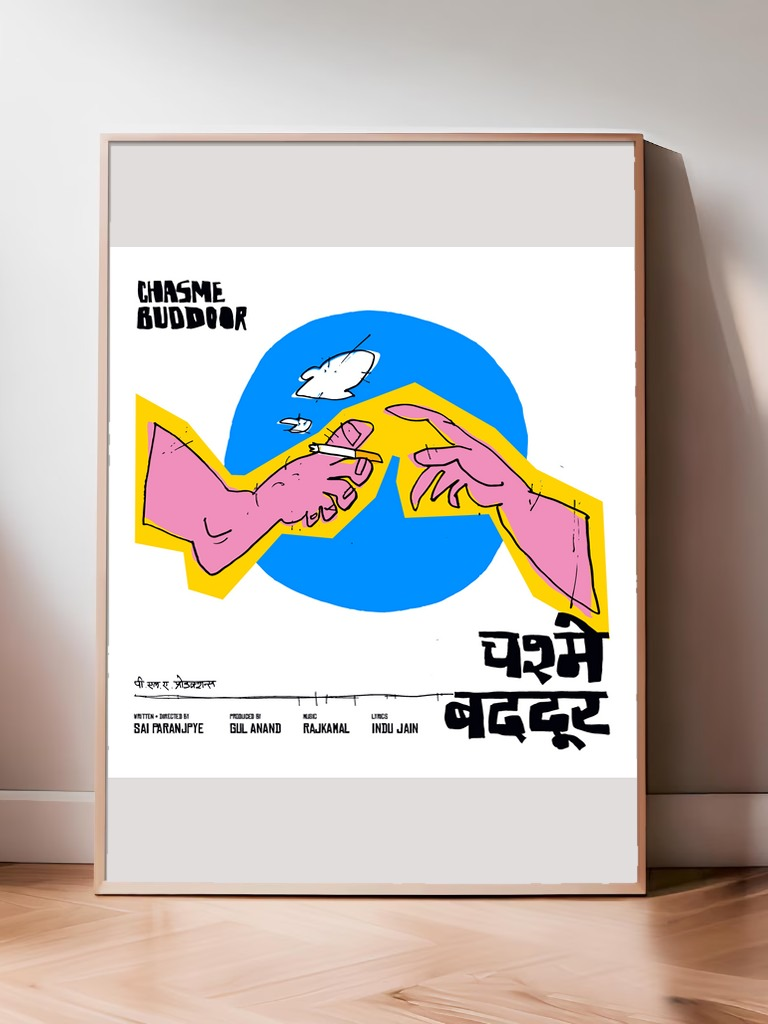
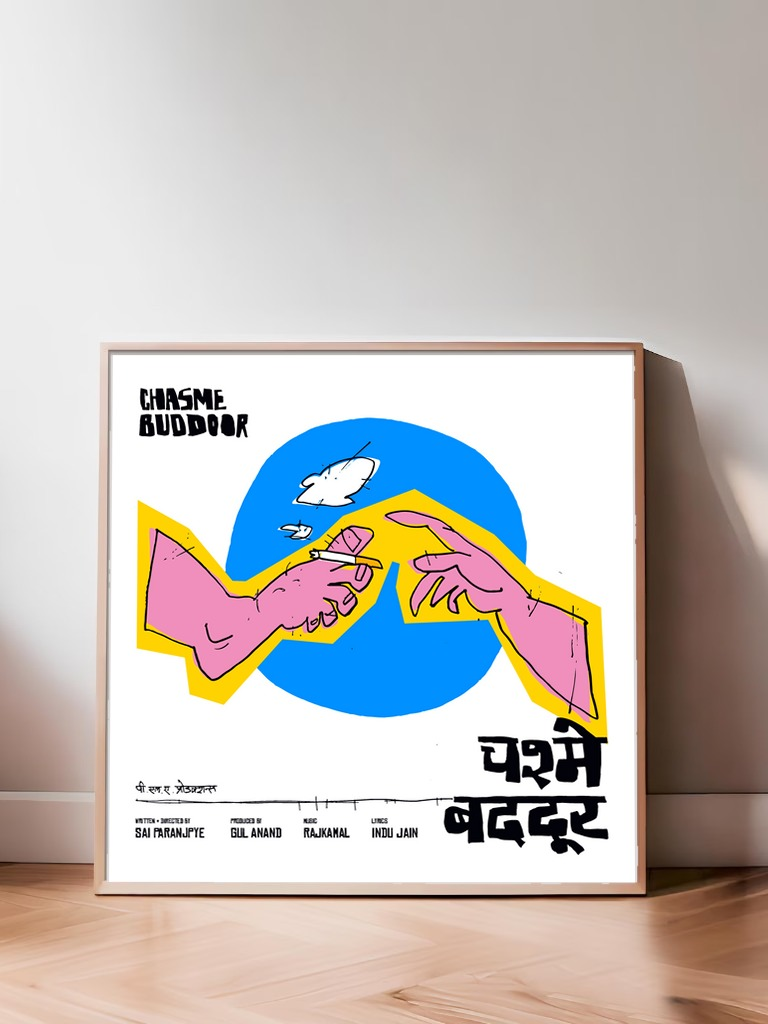
Fit leaning-frame mockups to each print's aspect ratio.
Scale the frame height instead of cropping or letterboxing art into one A-series opening.

diff --git a/scripts/composite-leaning-frame.py b/scripts/composite-leaning-frame.py
@@ -1,5 +1,10 @@
 #!/usr/bin/env python3
-"""Place each catalog print inside the leaning-frame mockup."""
+"""Place each catalog print inside the leaning-frame mockup.
+
+The mockup opening is a fixed A-series portrait. This script scales only the
+middle of the frame (keeping the floor, rails, and width) so the opening
+matches each print's aspect ratio, then composites without cropping.
+"""
 
 from __future__ import annotations
 
@@ -16,6 +21,10 @@ OUT_DIR = ROOT / "images" / "framed"
 MOCKUP_PATH = ROOT / "images" / "mockups" / "leaning-frame.png"
 MAT_SEED = (512, 850)
 PAPER = (225, 221, 220)
+SLICE_INSET = 0.12
+HEIGHT_SCALE_MIN = 0.45
+HEIGHT_SCALE_MAX = 1.6
+SKIP_SLICE_EPSILON = 0.02
 
 
 def find_coeffs(source, target):
@@ -36,14 +45,25 @@ def as_rgb(im: Image.Image) -> Image.Image:
     return im.convert("RGB")
 
 
-def paper_mask(mockup: Image.Image) -> Image.Image:
+def paper_mask(mockup: Image.Image, seed: tuple[int, int] = MAT_SEED) -> Image.Image:
     arr = np.array(mockup.convert("RGB"))
     h, w = arr.shape[:2]
+    sx, sy = seed
+    sx = min(max(0, sx), w - 1)
+    sy = min(max(0, sy), h - 1)
     target = np.array(PAPER, dtype=np.int16)
     ok = np.abs(arr.astype(np.int16) - target).max(axis=2) <= 6
+    if not ok[sy, sx]:
+        ys, xs = np.where(ok)
+        if len(xs) == 0:
+            raise RuntimeError("Could not find mat/paper pixels in mockup")
+        d = (xs - sx) ** 2 + (ys - sy) ** 2
+        i = int(np.argmin(d))
+        sx, sy = int(xs[i]), int(ys[i])
+
     ring = np.zeros((h, w), dtype=bool)
-    q = deque([MAT_SEED])
-    ring[MAT_SEED[1], MAT_SEED[0]] = True
+    q = deque([(sx, sy)])
+    ring[sy, sx] = True
     while q:
         x, y = q.popleft()
         for dx, dy in ((1, 0), (-1, 0), (0, 1), (0, -1)):
@@ -94,15 +114,100 @@ def paper_corners(mask: Image.Image) -> np.ndarray:
     )
 
 
-def cover_resize(im: Image.Image, width: int, height: int) -> Image.Image:
-    rgb = as_rgb(im)
-    scale = max(width / rgb.width, height / rgb.height)
-    nw = max(1, int(round(rgb.width * scale)))
-    nh = max(1, int(round(rgb.height * scale)))
-    resized = rgb.resize((nw, nh), Image.Resampling.LANCZOS)
-    left = max(0, (nw - width) // 2)
-    top = max(0, (nh - height) // 2)
-    return resized.crop((left, top, left + width, top + height))
+def opening_size(corners: np.ndarray) -> tuple[float, float]:
+    avg_w = (
+        np.linalg.norm(corners[1] - corners[0]) + np.linalg.norm(corners[2] - corners[3])
+    ) / 2
+    avg_h = (
+        np.linalg.norm(corners[3] - corners[0]) + np.linalg.norm(corners[2] - corners[1])
+    ) / 2
+    return float(avg_w), float(avg_h)
+
+
+def slice_lines(corners: np.ndarray) -> tuple[int, int]:
+    top = float(min(corners[0, 1], corners[1, 1]))
+    bottom = float(max(corners[2, 1], corners[3, 1]))
+    height = max(1.0, bottom - top)
+    cut_top = int(round(top + height * SLICE_INSET))
+    cut_bottom = int(round(bottom - height * SLICE_INSET))
+    if cut_bottom - cut_top < 32:
+        mid = int(round((top + bottom) / 2))
+        cut_top = mid - 16
+        cut_bottom = mid + 16
+    return cut_top, cut_bottom
+
+
+def map_y(
+    y: float,
+    wall_end: int,
+    cut_top: int,
+    cut_bottom: int,
+    mid_scale: float,
+    new_wall_h: int,
+) -> float:
+    if y <= wall_end:
+        return y * (new_wall_h / max(wall_end, 1))
+    if y <= cut_top:
+        return new_wall_h + (y - wall_end)
+    if y <= cut_bottom:
+        return new_wall_h + (cut_top - wall_end) + (y - cut_top) * mid_scale
+    return (
+        new_wall_h
+        + (cut_top - wall_end)
+        + (cut_bottom - cut_top) * mid_scale
+        + (y - cut_bottom)
+    )
+
+
+def scale_frame_height(
+    mockup: Image.Image, corners: np.ndarray, art_ratio: float
+) -> tuple[Image.Image, tuple[int, int]]:
+    """Compress or stretch the middle of the frame so the opening matches art_ratio."""
+    avg_w, avg_h = opening_size(corners)
+    target_h = avg_w / max(art_ratio, 0.05)
+    height_scale = float(np.clip(target_h / avg_h, HEIGHT_SCALE_MIN, HEIGHT_SCALE_MAX))
+    seed = MAT_SEED
+    if abs(height_scale - 1) < SKIP_SLICE_EPSILON:
+        return mockup, seed
+
+    inner_top = float(min(corners[0, 1], corners[1, 1]))
+    inner_bottom = float(max(corners[2, 1], corners[3, 1]))
+    opening_h = max(1.0, inner_bottom - inner_top)
+    cut_top, cut_bottom = slice_lines(corners)
+    w, h = mockup.size
+    cut_top = min(max(1, cut_top), h - 3)
+    cut_bottom = min(max(cut_top + 1, cut_bottom), h - 1)
+    wall_end = min(max(8, int(inner_top) - 50), cut_top - 1)
+    sliver = (cut_top - inner_top) + (inner_bottom - cut_bottom)
+    new_mid_h = max(1, int(round(opening_h * height_scale - sliver)))
+    actual_scale = new_mid_h / (cut_bottom - cut_top)
+
+    wall = mockup.crop((0, 0, w, wall_end))
+    top = mockup.crop((0, wall_end, w, cut_top))
+    mid = mockup.crop((0, cut_top, w, cut_bottom)).resize(
+        (w, new_mid_h), Image.Resampling.LANCZOS
+    )
+    bot = mockup.crop((0, cut_bottom, w, h))
+    body_h = top.height + mid.height + bot.height
+    if body_h >= h - 8:
+        new_wall_h = wall.height
+        canvas_h = wall.height + body_h
+    else:
+        new_wall_h = h - body_h
+        canvas_h = h
+    wall = wall.resize((w, new_wall_h), Image.Resampling.LANCZOS)
+
+    sliced = Image.new("RGB", (w, canvas_h))
+    sliced.paste(wall, (0, 0))
+    sliced.paste(top, (0, wall.height))
+    sliced.paste(mid, (0, wall.height + top.height))
+    sliced.paste(bot, (0, wall.height + top.height + mid.height))
+
+    mapped = (
+        seed[0],
+        int(round(map_y(seed[1], wall_end, cut_top, cut_bottom, actual_scale, new_wall_h))),
+    )
+    return sliced, mapped
 
 
 def contain_resize(im: Image.Image, width: int, height: int) -> Image.Image:
@@ -116,18 +221,14 @@ def contain_resize(im: Image.Image, width: int, height: int) -> Image.Image:
     return canvas
 
 
-def fit_print(im: Image.Image, width: int, height: int) -> Image.Image:
-    if im.width / im.height >= 0.9:
-        return contain_resize(im, width, height)
-    return cover_resize(im, width, height)
-
-
-def composite(poster: Image.Image, mockup: Image.Image, mask: Image.Image, corners: np.ndarray) -> Image.Image:
+def composite(
+    poster: Image.Image, mockup: Image.Image, mask: Image.Image, corners: np.ndarray
+) -> Image.Image:
     minx, miny = corners.min(axis=0)
     maxx, maxy = corners.max(axis=0)
     tw = max(64, int(round(maxx - minx)))
     th = max(64, int(round(maxy - miny)))
-    art = fit_print(poster, tw, th)
+    art = contain_resize(poster, tw, th)
     src = [(0, 0), (tw - 1, 0), (tw - 1, th - 1), (0, th - 1)]
     coeffs = find_coeffs(src, corners)
     warped = art.transform(
@@ -175,19 +276,33 @@ def with_lean_gallery(poster: dict) -> dict:
 
 def main():
     mockup = Image.open(MOCKUP_PATH).convert("RGB")
-    mask = paper_mask(mockup)
-    corners = paper_corners(mask)
-    print(MOCKUP_PATH.name, mockup.size, corners.tolist())
+    base_mask = paper_mask(mockup)
+    base_corners = paper_corners(base_mask)
+    avg_w, avg_h = opening_size(base_corners)
+    print(MOCKUP_PATH.name, mockup.size, "opening", round(avg_w / avg_h, 3), base_corners.tolist())
 
     posters = json.loads(CATALOG_PATH.read_text())
+    cache: dict[float, tuple[Image.Image, Image.Image, np.ndarray]] = {}
     updated = []
     for poster in posters:
         art = Image.open(ROOT / poster["image"])
-        framed = composite(art, mockup, mask, corners)
+        art_ratio = art.width / max(art.height, 1)
+        target_h = avg_w / max(art_ratio, 0.05)
+        height_scale = float(np.clip(target_h / avg_h, HEIGHT_SCALE_MIN, HEIGHT_SCALE_MAX))
+        key = round(height_scale, 3)
+        if key not in cache:
+            sized, seed = scale_frame_height(mockup, base_corners, art_ratio)
+            mask = paper_mask(sized, seed)
+            corners = paper_corners(mask)
+            cache[key] = (sized, mask, corners)
+            ow, oh = opening_size(corners)
+            print(f"  frame scale {key:.3f} opening {ow / oh:.3f} size {sized.size}")
+        sized, mask, corners = cache[key]
+        framed = composite(art, sized, mask, corners)
         dest = ROOT / lean_path(poster["id"])
         save_jpeg(framed, dest)
         updated.append(with_lean_gallery(poster))
-        print("wrote", dest.relative_to(ROOT))
+        print("wrote", dest.relative_to(ROOT), "art", round(art_ratio, 3))
 
     CATALOG_PATH.write_text(json.dumps(updated, indent=2) + "\n")
     print("updated posters.json")
